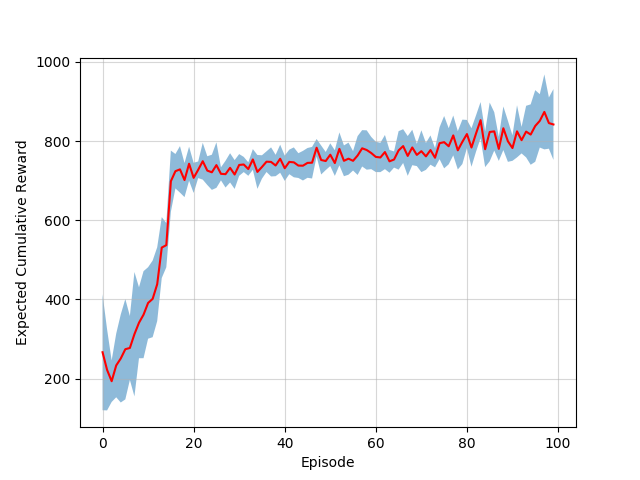
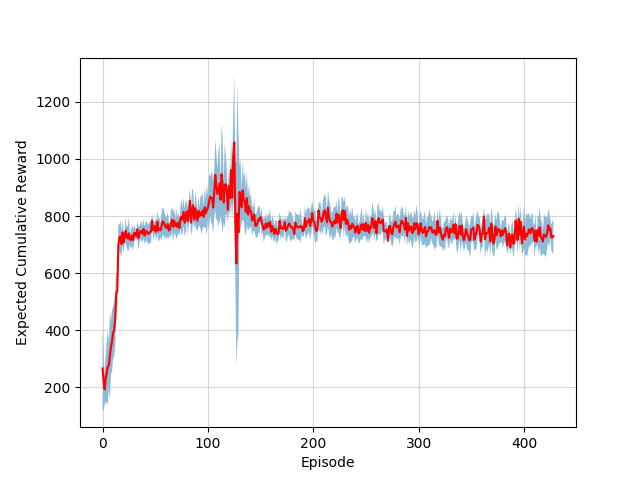
refactored code base

diff --git a/a2c_lax.py b/a2c_lax.py
@@ -108,8 +108,12 @@ class Model(object):
         cv = self.step_policy_model.cv_net(torch.cat([vf_in, actions], dim=1))
         ddiff_loss = torch.mean(cv, dim=0)
 
-        log_prob = torch.distributions.Normal(net_mean, net_std).log_prob(actions.detach())
-        dlog_prob = -((advs[:, None] - cv) * log_prob).mean(dim=0)
+        dist = torch.distributions.Normal(net_mean, net_std)
+
+        log_prob = dist.log_prob(actions.detach())
+        entropy = dist.entropy()
+
+        dlog_prob = -((advs[:, None] - cv) * log_prob).mean(dim=0) - entropy.mean(0) * 0.01
 
         pg_grads_mean = torch.autograd.grad(dlog_prob, self.step_policy_model.policy.net.parameters(),
                                             grad_outputs=torch.ones_like(dlog_prob),
@@ -154,7 +158,8 @@ class Model(object):
 
 class RolloutRunner(object):
 
-    def __init__(self, env: gym.Env, policy_model: LaxPolicyModel, max_path_len, gamma=0.99, lamb=0.97, obfilter=None):
+    def __init__(self, env: gym.Env, policy_model: LaxPolicyModel, max_path_len, gamma=0.99, lamb=0.97, obfilter=None,
+                 animate=False):
         self.env = env
         self.step_policy_model = policy_model
         self.max_path_len = max_path_len
@@ -162,6 +167,7 @@ class RolloutRunner(object):
         self.lamb = lamb
         self._num_rollouts = 0
         self._num_steps = 0
+        self.animate = animate
 
         self.obfilter = obfilter
 
@@ -188,8 +194,8 @@ class RolloutRunner(object):
             scaled_act = self.env.action_space.low + (to_npy(sampled_ac) + 1.) * 0.5 * (self.env.action_space.high - self.env.action_space.low)
             scaled_act = np.clip(scaled_act, a_min=self.env.action_space.low, a_max=self.env.action_space.high)
             ob, reward, done, _ = self.env.step(scaled_act)
-            # ob, reward, done, _ = self.env.step(to_npy(sampled_ac))
-            env.render()
+            if self.animate:
+                env.render()
 
             if self.obfilter: ob = self.obfilter(ob.squeeze())
             ob = to_torch(ob)
@@ -215,20 +221,23 @@ class RolloutRunner(object):
 
         return path, vtarget, value, adv_GAE
 
+
 def learn(env: gym.Env, seed, total_steps=int(10e6),
           cv_opt_epochs=5, vf_opt_epochs=25, gamma=0.99, lamb=0.97, tsteps_per_batch=200,
-          kl_thresh=0.002, obfilter=True, lax=True, update_targ_interval=2):
+          kl_thresh=0.002, obfilter=True, lax=True, update_targ_interval=2, animate=False):
 
-    # env.seed(seed)
+    set_global_seeds(seed)
+    env.seed(seed)
 
     obfilter = ZFilter(env.observation_space.shape) if obfilter else None
 
     max_pathlength = env.spec.max_episode_steps
-    obs_dim = env.observation_space.shape[0]
-    act_dim = env.action_space.shape[0]
+    obs_dim = policy.obs_dim
+    act_dim = policy.act_dim
 
     model = Model(obs_dim, act_dim, cv_opt_epochs, vf_opt_epochs)
-    runner = RolloutRunner(env, model.step_policy_model, max_pathlength, gamma=gamma, lamb=lamb, obfilter=obfilter)
+    runner = RolloutRunner(env, model.step_policy_model, max_pathlength, gamma=gamma, lamb=lamb, obfilter=obfilter,
+                           animate=animate)
 
     tsteps_so_far = 0
     episode = 0
@@ -289,7 +298,7 @@ def learn(env: gym.Env, seed, total_steps=int(10e6),
         exp_rews_means.append(mean_reward)
         exp_rews_stds.append(std_reward)
 
-        print("Expected reward: {} +- {}".format(mean_reward, std_reward))
+        print("Expected reward: {} ± {}".format(mean_reward, std_reward))
 
         x = torch.cat([model.step_policy_model.preproc(p) for p in paths])
         x = x.detach()
@@ -310,12 +319,12 @@ def learn(env: gym.Env, seed, total_steps=int(10e6),
                 model.update_cv(cv_gs)
         else:
             adv = rewards_n - values_n
-            # action_na = action_na
-            # oldac_mean, oldac_std = model.step_policy_model.policy(ob_no)
-            # action_na = torch.randn(oldac_std.shape) * oldac_std + oldac_mean
             # action is detached
-            log_probs_n = - torch.sum(torch.log(oldac_std), dim=1) - 0.5 * torch.log(torch.tensor(2.0*np.pi))*act_dim - 0.5 * torch.sum(torch.square(oldac_mean - action_na.detach()) / (torch.square(oldac_std)), dim=1)
-            ploss = -(adv * log_probs_n).mean(0)
+            log_probs_n = - torch.sum(torch.log(oldac_std), dim=1) - 0.5 * torch.log(
+                torch.tensor(2.0 * np.pi)) * act_dim - 0.5 * torch.sum(
+                torch.square(oldac_mean - action_na.detach()) / (torch.square(oldac_std)), dim=1)
+            entropy = torch.distributions.Normal(oldac_mean, oldac_std).entropy()
+            ploss = -(adv * log_probs_n).mean(0) - entropy.mean() * 0.01
 
             pg = torch.autograd.grad(ploss, model.step_policy_model.policy.parameters(),
                                      retain_graph=True, create_graph=True)
@@ -359,12 +368,17 @@ if __name__ == '__main__':
     seed = 42
     set_global_seeds(seed)
     # env = gym.make('Pendulum-v0')
-    env = GentlyTerminating(gym.make('CartpoleStabShort-v0'))
+    # env = GentlyTerminating(gym.make('CartpoleStabShort-v0'))
     # env = GentlyTerminating(gym.make('Qube-100-v0'))
+    # env = GentlyTerminating(gym.make('CartpoleSwingShort-v0'))
+    env = GentlyTerminating(gym.make('LunarLanderContinuous-v2'))
+    # env = GentlyTerminating(gym.make('BipedalWalker-v2'))
+    # env = GentlyTerminating(gym.make('BipedalWalkerHardcore-v2'))
+    # env = GentlyTerminating(gym.make('HalfCheetah-v3'))
 
     env.seed(seed)
     obs_dim = env.observation_space.shape[0]
-    act_dim = env.action_space.shape[0]
-    policy = LaxPolicyModel(obs_dim, act_dim, p_lr=1e-4)
+    act_dim = env.action_space.n if hasattr(env.action_space, 'n') else env.action_space.shape[0]
+    policy = LaxPolicyModel(obs_dim, act_dim, p_hidden=64, vf_hidden=64, cv_hidden=64, p_lr=1e-4)
 
-    learn(env, 1337, obfilter=True, tsteps_per_batch=2500, lax=True)
+    learn(env, 1337, obfilter=True, tsteps_per_batch=2500, cv_opt_epochs=25, lax=True, gamma=0.97, lamb=0.99, animate=True)

diff --git a/policies.py b/policies.py
@@ -46,9 +46,13 @@ class GaussianPolicy(nn.Module):
 
 class LaxPolicyModel:
 
-    def __init__(self, obs_dim, act_dim, p_lr=1e-4, vf_lr=1e-3, cv_lr=1e-3):
+    def __init__(self, obs_dim, act_dim, p_hidden=64, vf_hidden=64, cv_hidden=64, p_lr=1e-4, vf_lr=1e-3, cv_lr=1e-3):
         self.obs_dim = obs_dim
         self.act_dim = act_dim
+
+        self.p_hidden=p_hidden
+        self.vf_hidden = vf_hidden
+        self.cv_hidden = cv_hidden
         self.p_lr = p_lr
         self.vf_lr = vf_lr
         self.cv_lr = cv_lr
@@ -56,9 +60,9 @@ class LaxPolicyModel:
         self.cv_in_dim = self.vf_in_dim + self.act_dim
         self.policy_in_dim = self.obs_dim * 2
 
-        self.cv_net = MLP(in_dim=self.cv_in_dim, out_dim=1, n_hidden=64, nonlin='elu')
-        self.vf_net = MLP(in_dim=self.vf_in_dim, out_dim=1, n_hidden=64, nonlin='elu')
-        self.policy = GaussianPolicy(in_dim=self.policy_in_dim, n_hidden=64, out_dim=self.act_dim, nonlin='tanh')
+        self.cv_net = MLP(in_dim=self.cv_in_dim, out_dim=1, n_hidden=cv_hidden, nonlin='elu')
+        self.vf_net = MLP(in_dim=self.vf_in_dim, out_dim=1, n_hidden=vf_hidden, nonlin='elu')
+        self.policy = GaussianPolicy(in_dim=self.policy_in_dim, n_hidden=p_hidden, out_dim=self.act_dim, nonlin='tanh')
 
         self.cv_optim = torch.optim.Adam(self.cv_net.parameters(), lr=self.cv_lr)
         self.vf_optim = torch.optim.Adam(self.vf_net.parameters(), lr=self.vf_lr)

diff --git a/example.py b/example.py
@@ -1,0 +1,21 @@
+import gym
+from quanser_robots import GentlyTerminating
+
+from a2c_lax import learn
+from common.util import set_global_seeds
+
+if __name__ == '__main__':
+    seed = 42
+    # env = gym.make('Pendulum-v0')
+    # env = GentlyTerminating(gym.make('CartpoleStabShort-v0'))
+    # env = GentlyTerminating(gym.make('Qube-100-v0'))
+    # env = GentlyTerminating(gym.make('CartpoleSwingShort-v0'))
+    env = GentlyTerminating(gym.make('LunarLanderContinuous-v2'))
+    # env = GentlyTerminating(gym.make('BipedalWalker-v2'))
+    # env = GentlyTerminating(gym.make('BipedalWalkerHardcore-v2'))
+    # env = GentlyTerminating(gym.make('HalfCheetah-v3'))
+
+    obs_dim = env.observation_space.shape[0]
+    act_dim = env.action_space.n if hasattr(env.action_space, 'n') else env.action_space.shape[0]
+
+    learn(env, 1337, obfilter=True, tsteps_per_batch=2500, cv_opt_epochs=25, lax=True, gamma=0.97, lamb=0.99, animate=True)

diff --git a/common/plot.py b/common/plot.py
@@ -20,6 +20,6 @@ def plt_expected_cum_reward(path, expected_reward, std):
     ax.grid(alpha=0.5, linestyle='-')
 
 
-    fig.savefig(path+'/reward_lax_True_cv_mins_2500_act_detach-5opt_cartpole.png')
+    fig.savefig(path+'/reward_lax_True_cv_mins_2500_act_detach-25opt_bipedal-hardcore-larger-net-kl-adapted.png')
     plt.clf()
     plt.close('all')
